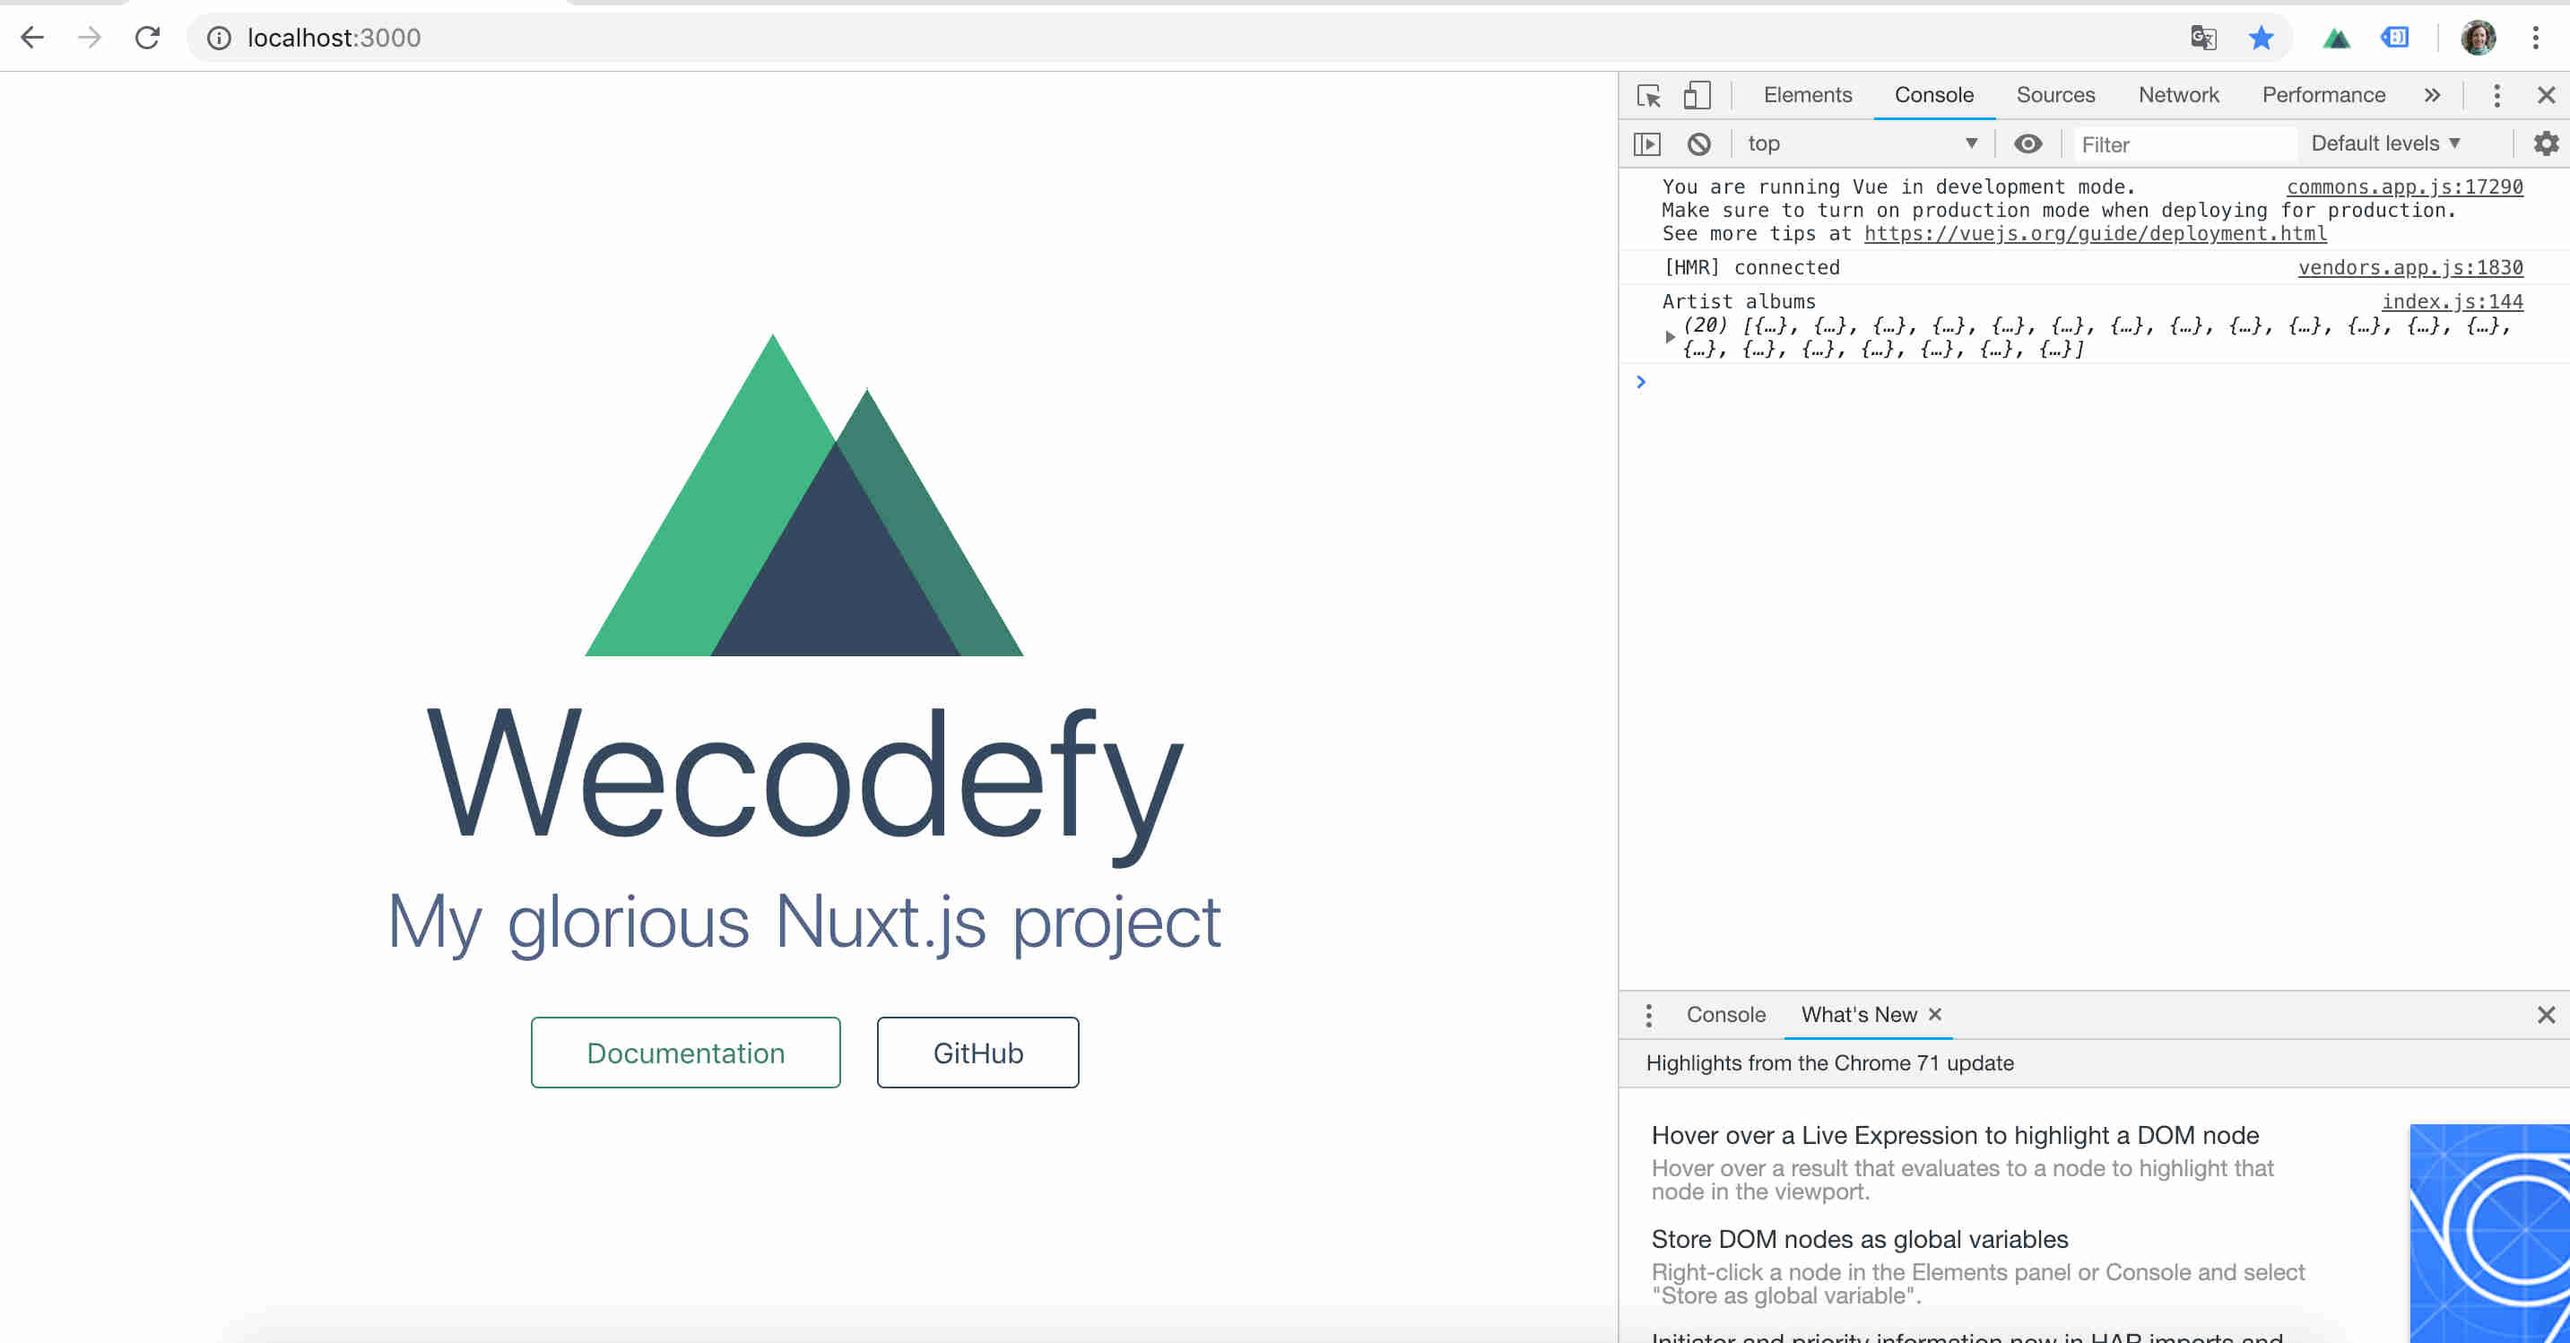
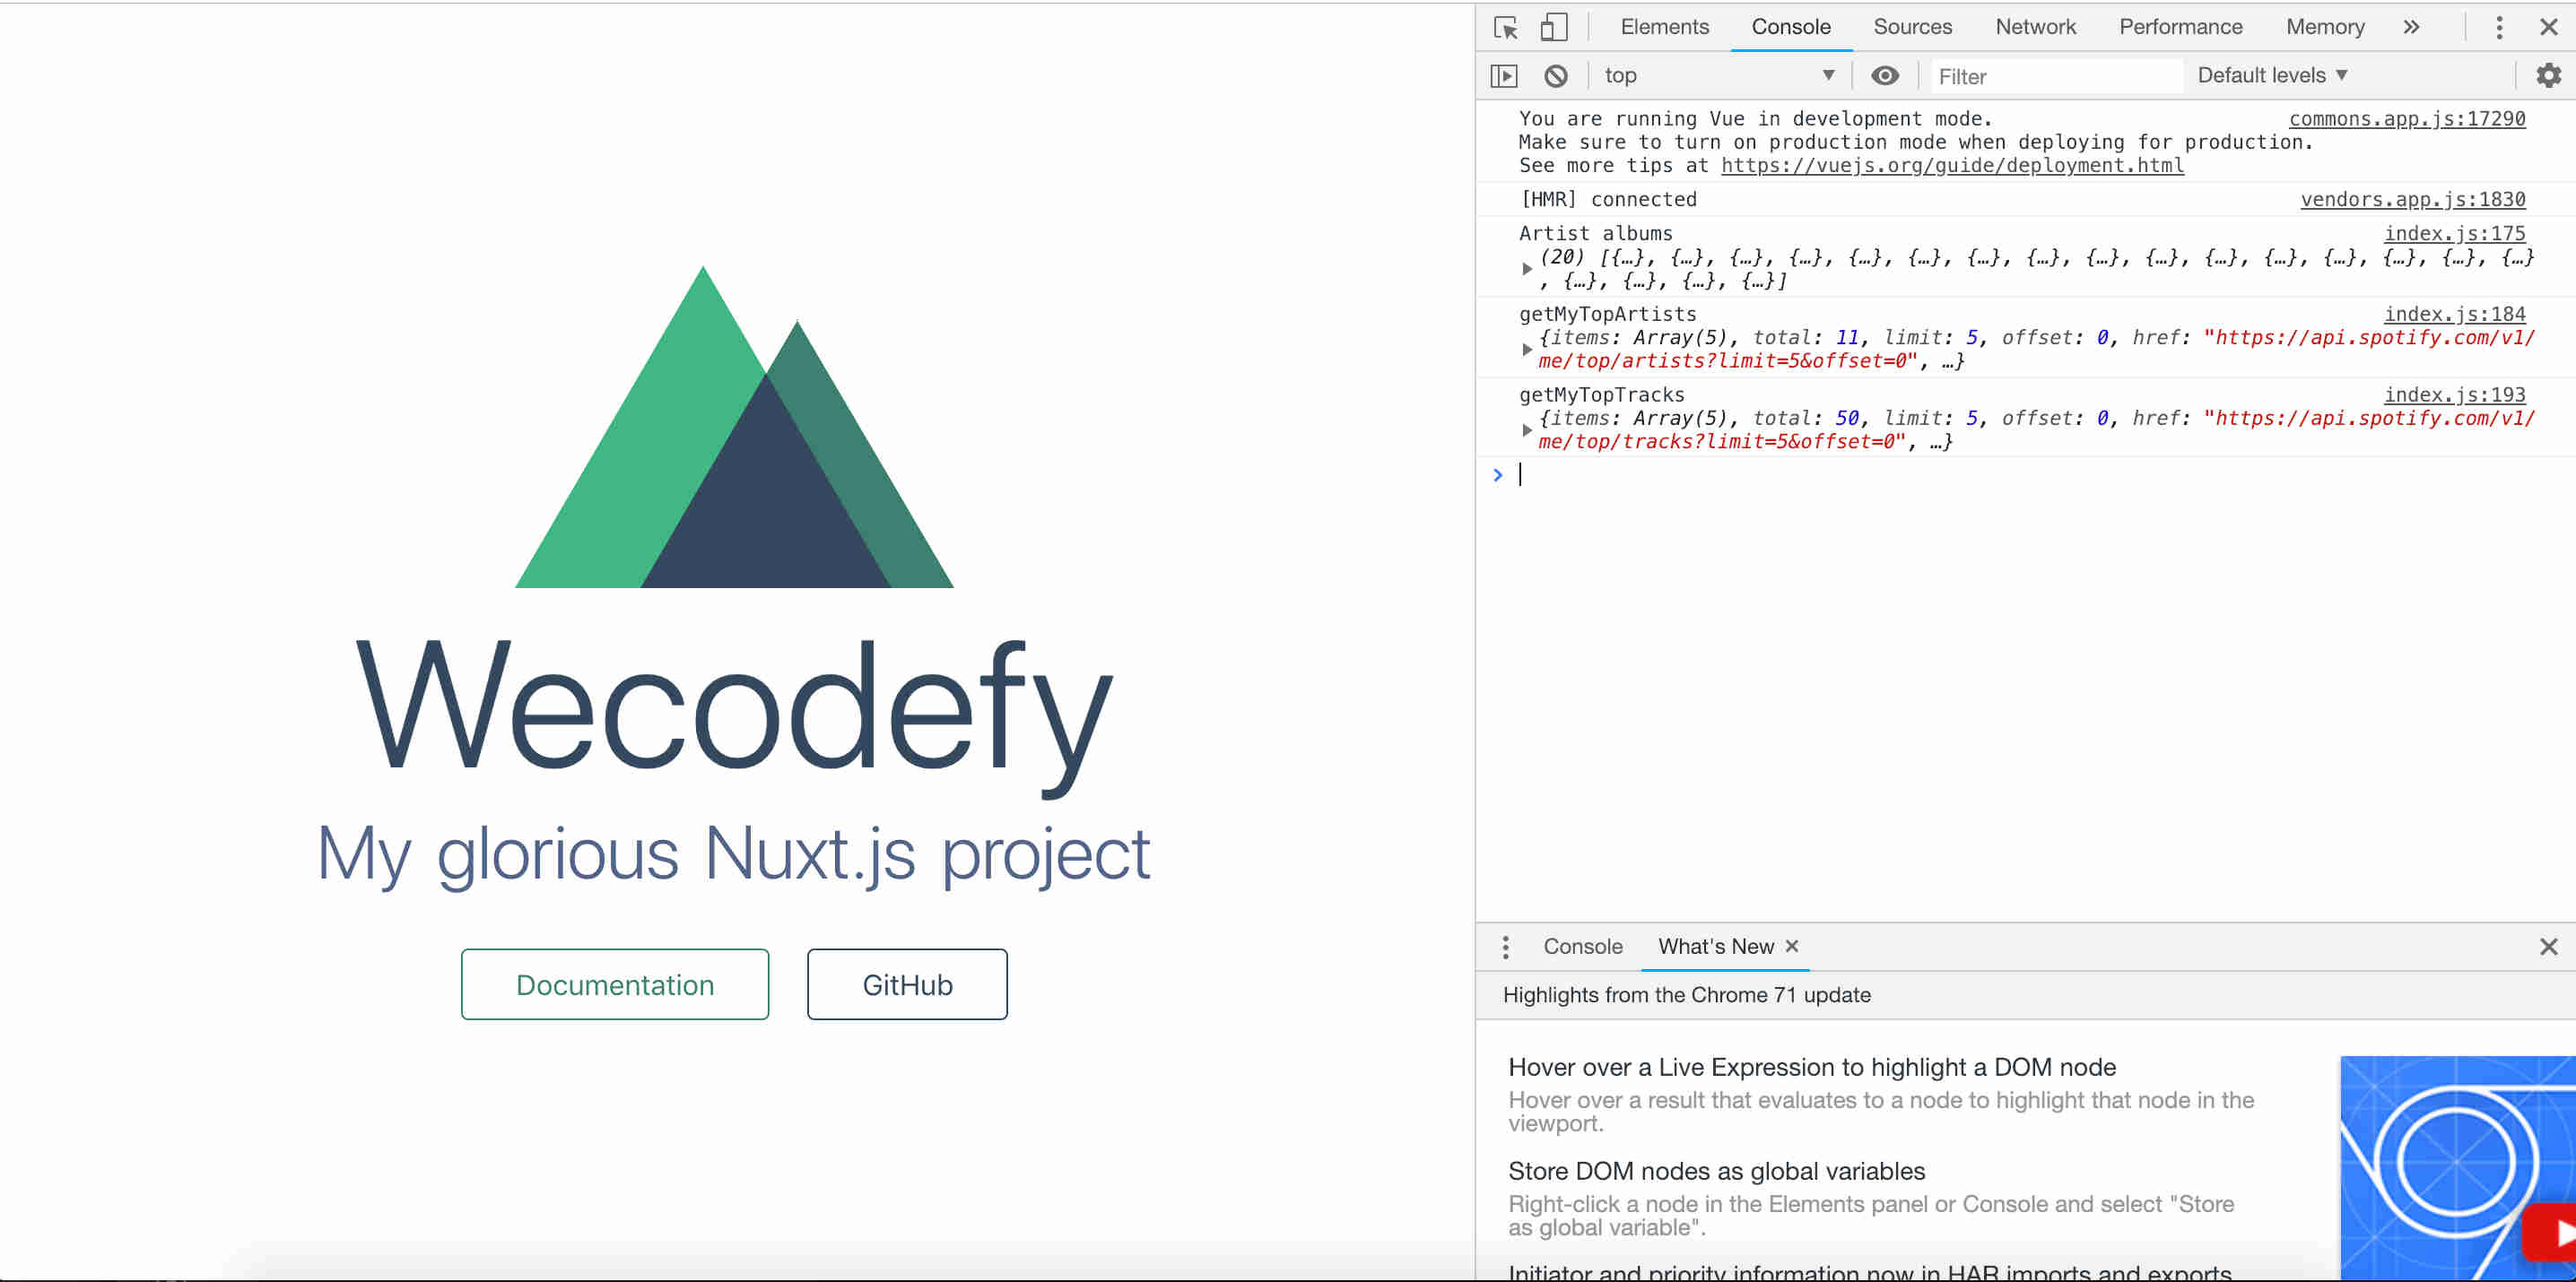
Implicit grant

diff --git a/pages/index.vue b/pages/index.vue
@@ -33,9 +33,23 @@ export default {
   },
 
   mounted() {
-    const token = process.env.SPOTIFY_ACCESS_TOKEN
-    if (token) {
-      spotifyApi.setAccessToken(token);
+    // https://gist.github.com/igorPhelype/68239ecab9afcc50230ce0c61c3bac2f
+    const callback_url = window.location.href
+    const client_id = '9ce0744ff4a04334966cbcf3fb7e312d'
+    const api_url = `https://accounts.spotify.com/authorize?client_id=${client_id}&response_type=token&redirect_uri=${callback_url}`;
+    let access_token
+    let hash
+    if(!window.location.hash) {
+        window.location.replace(api_url)
+    } else {
+        const url = window.location.href
+        hash = url.split('#')[1]
+        hash = hash.split('&')[0]
+        hash = hash.split('=')[1]
+    }
+    access_token = hash
+    if (access_token) {
+      spotifyApi.setAccessToken(access_token)
     }
     // Get Elvis' albums (initial test)
     spotifyApi.getArtistAlbums('43ZHCT0cAZBISjO8DG9PnE').then(

diff --git a/nuxt.config.js b/nuxt.config.js
@@ -1,4 +1,3 @@
-require('dotenv').config()
 const pkg = require('./package')
 
 module.exports = {
@@ -40,7 +39,6 @@ module.exports = {
   ** Nuxt.js modules
   */
   modules: [
-    '@nuxtjs/dotenv'
   ],
 
   /*

diff --git a/README.md b/README.md
@@ -61,98 +61,72 @@ Se va a usar la herramienta de scaffolding [create-nuxt-app](https://nuxtjs.org/
 
 - Ir al [Dashboard](https://developer.spotify.com/dashboard/) y crear un client ID.
 
-- Editar settings en el Dashboard y añadir como Redirect URIs: 'http://localhost:8888' y 'http://localhost:8888/callback'.
-
-- Clonar proyecto en local (en otra ruta distinta al proyecto) para obtener un token: [Spotify Accounts Authentication Examples](https://github.com/spotify/web-api-auth-examples):
-
-    ```
-    git clone https://github.com/spotify/web-api-auth-examples.git
-    cd web-api-auth-examples
-    npm install
-    ```
-
-- Modificar Client ID y Client Secret con los que aparecen en el Dashboard en `authorization_code/app.js`. Añadir 'http://localhost:8888/callback' como 'redirect_uri'.
-
-- Añadir en scope en `authorization_code/app.js`: 'user-top-read' (para recoger el top de artistas del current user).
-
-- Ejecutar app.js:
-
-```
-cd authorization_code
-$ node app.js
-```
-
-- Ir a http://localhost:8888/
-
-- Log in with Spotify
-
-- Al hacer login te da tus datos, el access token y el refresh token. Haz click en "Obten new token" y apunta el access token desde Network (llamada "refresh_token") para añadirlo en el fichero .env en el siguiente paso.
-
-Ej.
-
-```
-access_token: "BQAxVEKKOV2Ee7byea2KriV4VluYffmllwPhAePEL1c2uu3jmkQXimqRDHaUSXZeNc-tkclrenqMQHDHXfTUZUDjTQOpiSEyUDE4qmFIT_PcVB0yVRRm9fpcUeMsoTDYOAk29Bf7rq1-5hk43Gzx5Ck-AH57pOE9DPPk1Q"
-
-```
-
-#### Instalar dotenv
-
-- [Dotenv](https://github.com/nuxt-community/dotenv-module)
-
-  ```
-  npm install @nuxtjs/dotenv --save
-  ```
-
-- Añadir como primera línea en `nuxt.config-js`:
-  ```
-  require('dotenv').config()
-  ```
-
-- Añadirlo en la sección de `modules` de `nuxt.config.js`:
-
-  ```
-  {
-    modules: [
-      '@nuxtjs/dotenv'
-  ]
-  }
-  ```
-
-- Crear un fichero .env en la raíz del proyecto para añadir el token que obtuvimos en "Instalación paso 2". Si se va a subir a un repositorio git añadirlo a .gitignore para evitar subirlo por error.
-
-  ```
-  SPOTIFY_ACCESS_TOKEN=xxxxxxxxxx
-  ```
-
-- Parar el servidor de desarrollo (Control + C) y arrancarlo de nuevo (`npm run dev`) para cargar los cambios.
+- Editar settings en el Dashboard y añadir como Redirect URIs: 'http://localhost:3000/'.
 
 #### Instalar [Spotify Web API JS]
+
+Instalar el paquete spotify-web-api-js en la raíz del proyecto.,
 
   ```
   npm install spotify-web-api-js --save
   ```
 
 Probar que funciona en `pages/index.vue`:
-- En la sección `script` añadir:
+- En la sección `script` añadir importar librería de spotify-api y el código en la función mounted (cambiando el client ID por el tuyo):
 
   ```js
   const SpotifyWebApi = require('spotify-web-api-js');
   const spotifyApi = new SpotifyWebApi()
 
   export default {
-    components: {
-      Logo
-    },
 
     mounted() {
-      const token = process.env.SPOTIFY_ACCESS_TOKEN;
-      if (token) {
-        spotifyApi.setAccessToken(token);
+      // https://gist.github.com/igorPhelype/68239ecab9afcc50230ce0c61c3bac2f
+      const callback_url = window.location.href
+      const client_id = 'YOUR_CLIENT_ID'
+      const api_url = `https://accounts.spotify.com/authorize?client_id=${client_id}&response_type=token&redirect_uri=${callback_url}`;
+      let access_token
+      let hash
+      if(!window.location.hash) {
+          window.location.replace(api_url)
+      } else {
+          const url = window.location.href
+          hash = url.split('#')[1]
+          hash = hash.split('&')[0]
+          hash = hash.split('=')[1]
       }
-      // Get Elvis' albums
+      access_token = hash
+      if (access_token) {
+        spotifyApi.setAccessToken(access_token)
+      }
+      // Get Elvis' albums (initial test)
       spotifyApi.getArtistAlbums('43ZHCT0cAZBISjO8DG9PnE').then(
         function(data) {
           console.log('Artist albums', data.items)
+        },
+        function(err) {
+          console.error(err)
+        }
+      )
+      // Get my top Artists
+      spotifyApi.getMyTopArtists({
+        limit: 5,
+        time_range: 'medium_term'
+      }).then(
+        function(data) {
+          console.log('getMyTopArtists', data)
+        },
+        function(err) {
+          console.error(err)
+        }
+      )
+      // Get my top tracks
+      spotifyApi.getMyTopTracks({
+        limit: 5,
+        time_range: 'medium_term'
+      }).then(
+        function(data) {
+          console.log('getMyTopTracks', data)
         },
         function(err) {
           console.error(err)
@@ -166,6 +140,8 @@ Probar que funciona en `pages/index.vue`:
 
   ```
   Artist albums (20) [{…}, {…}, {…}, {…}, {…}, {…}, {…}, {…}, {…}, {…}, {…}, {…}, {…}, {…}, {…}, {…}, {…}, {…}, {…}, {…}]
+  getMyTopArtists {items: Array(5), total: 11, limit: 5, offset: 0, href: "https://api.spotify.com/v1/me/top/artists?limit=5&offset=0", …}
+  getMyTopTracks {items: Array(5), total: 50, limit: 5, offset: 0, href: "https://api.spotify.com/v1/me/top/tracks?limit=5&offset=0", …}
   ```
 
 ![Imagen consola JS](md-images/spotify-test.jpg?raw=true)

diff --git a/TODO.md b/TODO.md
@@ -20,6 +20,7 @@
     - Are you developing a commercial integration? No
 - [x] Get Top User artists: Se necesita [User Authorization](https://developer.spotify.com/documentation/general/guides/authorization-guide/): To get that authorization, your application generates a call to the Spotify Accounts Service /authorize endpoint, passing along a list of the scopes for which access permission is sought.
     - [Get User's Top Artists and Tracks](https://developer.spotify.com/console/get-current-user-top-artists-and-tracks/?type=artists&time_range=&limit=&offset=)
+- Implicit Grant: [Example](https://gist.github.com/igorPhelype/68239ecab9afcc50230ce0c61c3bac2f), [Authorization Guide](https://developer.spotify.com/documentation/general/guides/authorization-guide/).
 
 [ ] Rama en GitHub por cada funcionalidad de la aplicación (nuxt1, ...nuxtn):
 - [ ] Componentes y layout con parte estática. Global CSS (metodología BEM). Nuxt-link. Transición entre páginas.

diff --git a/RECURSOS.md b/RECURSOS.md
@@ -22,15 +22,17 @@
 
 ## Spotify plugins
 
-- [Vue Spotify](https://www.npmjs.com/package/vue-spotify)
 
-- [Spotify Web API Node](https://github.com/thelinmichael/spotify-web-api-node)
 
 - [Spotify Web API JS](https://github.com/JMPerez/spotify-web-api-js)
 
 - [Spotify Web API Token generator](https://github.com/JMPerez/spotify-web-api-token)
 
-- [Spotify connect API](https://jmperezperez.com/spotify-connect-api/)
+- [Spotify Accounts Authentication Examples](https://github.com/spotify/web-api-auth-examples)
+
+- [Spotify Web API Node](https://github.com/thelinmichael/spotify-web-api-node)
+
+- [Vue Spotify](https://www.npmjs.com/package/vue-spotify)
 
 ## VueJS-spotify projects
 
